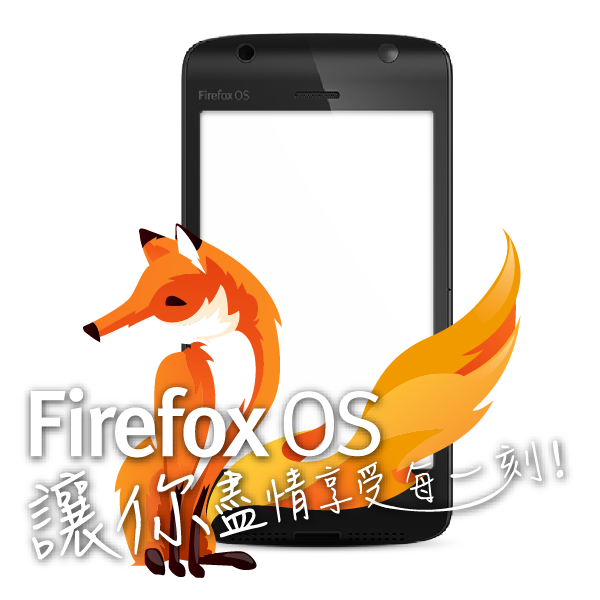
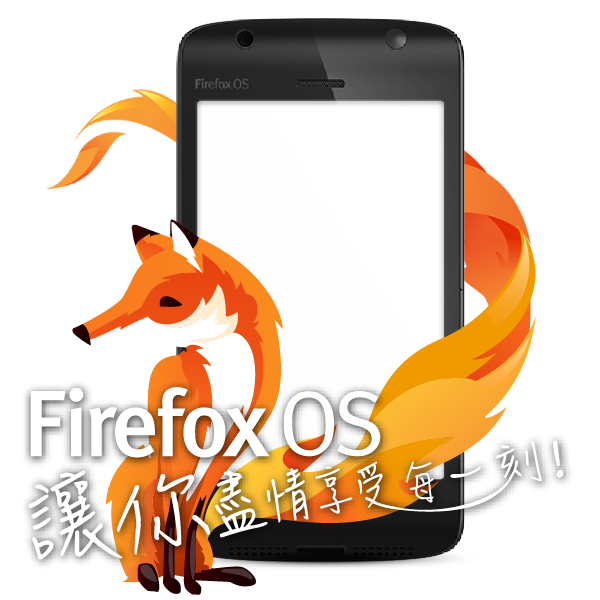
Style fix, wall query fix.

diff --git a/static/css/event/every-moment-wall.less b/static/css/event/every-moment-wall.less
@@ -13,7 +13,8 @@
   .eventPhotos {
     margin: 0 auto;
     .eventPhoto {
-      margin-left: 50px;
+      margin-left: 35px;
+      margin-right: 35px;
       margin-bottom: 23px;
       .photoDescription p {
         margin: 0 11px;
@@ -90,31 +91,13 @@
 }
 
 #fxos-phone-frame {
+  background: url(/static/img/event/every-moment/newupload/newupload-fox01.png) no-repeat;
   display: none;
   position: absolute;
-  width: 537px;
-  height: 600px;
-  .fxos-firefox {
-    background: url(/static/img/event/every-moment/home/step/upload-fox01.png);
-    position: absolute;
-    width: 463px;
-    height: 375px;
-    top: 190px;
-    left: 22px;
-  }
-  .fxos-phone {
-    width: 300px;
-    height: 555px;
-    position: absolute;
-    top: -12px;
-    left: 120px;
-    .phone-frame {
-      position: absolute;
-      background: url(/static/img/event/every-moment/home/step/upload-phone.png);
-      width: 100%;
-      height: 100%;
-    }
-  }
+  width: 551px;
+  height: 618px;
+  overflow: visible;
+  pointer-events: none;
   .bigShareButton {
     background: url(/static/img/event/every-moment/newupload/newupload-share-big.png);
     display: block;
@@ -131,13 +114,4 @@
       height: 100%;
     }
   }
-}
-
-.fxos-firefox-tail {
-  background: url(/static/img/event/every-moment/home/step/upload-fox02.png);
-  position: absolute;
-  width: 537px;
-  height: 226px;
-  top: 160px;
-  left: -16px;
 }

diff --git a/ffclub/event/templates/event/every-moment/index.html b/ffclub/event/templates/event/every-moment/index.html
@@ -1,6 +1,6 @@
 {% set page_title = '美好時刻' %}
-{% set login_url = url('event.every.moment.upload') %}
-{% set logout_url = url('event.every.moment') %}
+{% set login_url = url('campaign.every.moment.upload') %}
+{% set logout_url = url('campaign.every.moment') %}
 {% extends "base.html" %}
 {% block title %}美好時刻 - Mozilla Taiwan{% endblock %}
 {% block base_css %}
@@ -142,7 +142,7 @@
         {% if not request.user.is_active %}
         <a class="start-upload-button loginButton" href="javascript:void(0);"></a>
         {% else %}
-        <a class="start-upload-button" href="{{ url('event.every.moment.upload') }}"></a>
+        <a class="start-upload-button" href="{{ url('campaign.every.moment.upload') }}"></a>
         {% endif %}
         <div class="upload-tip"></div>
       </div>

diff --git a/ffclub/event/templates/event/every-moment/wall.html b/ffclub/event/templates/event/every-moment/wall.html
@@ -73,23 +73,15 @@
     {% endif %}
     {% if event_photos|length > 0 %}
       <div id="page-nav">
-        <a href="{{ url('event.wall.page', page_number=2) }}"></a>
+        <a href="{{ url('campaign.every.moment.wall.page', page_number=2) }}"></a>
       </div>
     {% endif %}
   </div>
   <div id="fxos-phone-frame">
-    <div class="fxos-phone">
-      <div class="phone-frame">
-      </div>
-    </div>
-    <div class="fxos-firefox">
-    </div>
     <a class="bigShareButton" href="javascript:void(0);">
       <div class="bigShareText"></div>
     </a>
   </div>
-{#  <div class="fxos-firefox-tail">#}
-{#  </div>#}
 
 {% endblock %}
 {% block footer %}{% endblock %}

diff --git a/ffclub/event/templates/event/every-moment/upload.html b/ffclub/event/templates/event/every-moment/upload.html
@@ -46,7 +46,7 @@
     <div id="details">
       {% if uploaded %}
         <div id="upload-success">恭喜你已經上傳成功！</div>
-        <a id="view-wall" href="{{ url('event.every.moment.wall') }}"></a>
+        <a id="view-wall" href="{{ url('campaign.every.moment.wall') }}"></a>
         <div id="view-wall-tip"></div>
 
       {% else %}

diff --git a/static/css/event/every-moment.less b/static/css/event/every-moment.less
@@ -368,7 +368,7 @@
       width: 537px;
       height: 226px;
       top: 160px;
-      left: -16px;
+      left: -4px;
     }
     .fxos-phone-vertical {
       width: 300px;

diff --git a/static/css/event/every-moment-upload.less b/static/css/event/every-moment-upload.less
@@ -171,7 +171,7 @@ form.details-form {
     width: 537px;
     height: 226px;
     top: 120px;
-    left: -26px;
+    left: -14px;
     display: block;
   }
 

diff --git a/ffclub/event/views.py b/ffclub/event/views.py
@@ -17,6 +17,7 @@ from ffclub.upload.forms import ImageUploadForm, CampaignImageUploadForm
 from ffclub.upload.models import ImageUpload
 from ffclub.settings import EVENT_WALL_PHOTOS_PER_PAGE, SITE_URL, FB_APP_NAMESPACE
 from ffclub.person.forms import PersonEmailNicknameForm
+from ffclub.person.models import Person
 
 log = commonware.log.getLogger('ffclub')
 
@@ -173,17 +174,42 @@ def every_moment_wall(request):
     return every_moment_wall_page(request, 1)
 
 
+def prefetch_profile_fullname(uploads):
+    uids = []
+    for upload in uploads:
+        uids += (upload.create_user.id,)
+    people = Person.objects.filter(user_id__in=uids)
+    for upload in uploads:
+        for person in people:
+            if upload.create_user.id == person.user_id:
+                # print person.fullname
+                upload.create_username = person.fullname
+    return uploads
+
+
 def every_moment_wall_page(request, page_number=1):
-    allEventPhotos = ImageUpload.objects.filter(
-        content_type=ContentType.objects.get(model='campaign'), entity_id=Campaign.objects.get(slug='every-moment').id
-    ).order_by('-create_time').prefetch_related('create_user', 'create_user__person')
-    for eventPhoto in allEventPhotos:
-        try:
-            eventPhoto.create_username = eventPhoto.create_user.person.fullname
-        except ObjectDoesNotExist:
-            eventPhoto.create_username = ''
-    paginator = Paginator(allEventPhotos, EVENT_WALL_PHOTOS_PER_PAGE)
-    return render(request, 'event/every-moment/wall.html', {'event_photos': paginator.page(page_number)})
+    # allEventPhotos = ImageUpload.objects.filter(
+    #     content_type=ContentType.objects.get(model='campaign'), entity_id=Campaign.objects.get(slug='every-moment').id
+    # ).order_by('-create_time').prefetch_related('create_user', 'create_user__person')
+    contentTypeId = ContentType.objects.get(model='campaign').id
+    entityId = Campaign.objects.get(slug='every-moment').id
+    allEventPhotos = list(ImageUpload.objects.raw(
+        'SELECT * FROM upload_imageupload WHERE content_type_id=%d AND entity_id=%d '
+        'ORDER BY create_user_id=%d DESC, create_time DESC LIMIT %d, %d' %
+        (contentTypeId, entityId, request.user.id,
+         EVENT_WALL_PHOTOS_PER_PAGE * (page_number - 1), EVENT_WALL_PHOTOS_PER_PAGE))
+    )
+    prefetch_profile_fullname(uploads=allEventPhotos)
+    # for eventPhoto in allEventPhotos:
+    #     try:
+    #         eventPhoto.create_username = eventPhoto.create_user.person.fullname
+    #     except ObjectDoesNotExist:
+    #         eventPhoto.create_username = ''
+
+    # paginator = Paginator(allEventPhotos, EVENT_WALL_PHOTOS_PER_PAGE)
+    # paginator._count = len(list(allEventPhotos))
+    # return render(request, 'event/every-moment/wall.html', {'event_photos': paginator.page(page_number)})
+    return render(request, 'event/every-moment/wall.html', {'event_photos': allEventPhotos})
 
 
 def attack_on_web(request):

diff --git a/ffclub/event/urls.py b/ffclub/event/urls.py
@@ -10,9 +10,10 @@ urlpatterns = patterns(
     url(r'^(?P<type>event|campaign)/photos/(?P<photo_id>\d+)/$', views.activity_photo, name='activity.photo'),
     url(r'^(?P<type>event|campaign)/photos/(?P<photo_id>\d+)/report/$', views.activity_photo_report, name='activity.photo.report'),
     url(r'^(?P<type>event|campaign)/photos/(?P<photo_id>\d+)/remove/$', views.activity_photo_remove, name='activity.photo.remove'),
-    url(r'^events/every-moment/$', views.every_moment, name='event.every.moment'),
-    url(r'^events/every-moment/upload/$', views.every_moment_upload, name='event.every.moment.upload'),
-    url(r'^events/every-moment/wall/$', views.every_moment_wall, name='event.every.moment.wall'),
+    url(r'^campaign/every-moment/$', views.every_moment, name='campaign.every.moment'),
+    url(r'^campaign/every-moment/upload/$', views.every_moment_upload, name='campaign.every.moment.upload'),
+    url(r'^campaign/every-moment/wall/$', views.every_moment_wall, name='campaign.every.moment.wall'),
+    url(r'^campaign/every-moment/wall/(?P<page_number>\d+)$', views.wall_page, name='campaign.every.moment.wall.page'),
     url(r'^events/attack-on-web/$', views.attack_on_web, name='event.attack.on.web'),
     url(r'^events/attack-on-web/prizes/$', views.prizes, name='event.attack.on.web.prizes'),
     url(r'^events/attack-on-web/apply/$', views.apply, name='event.attack.on.web.apply'),
